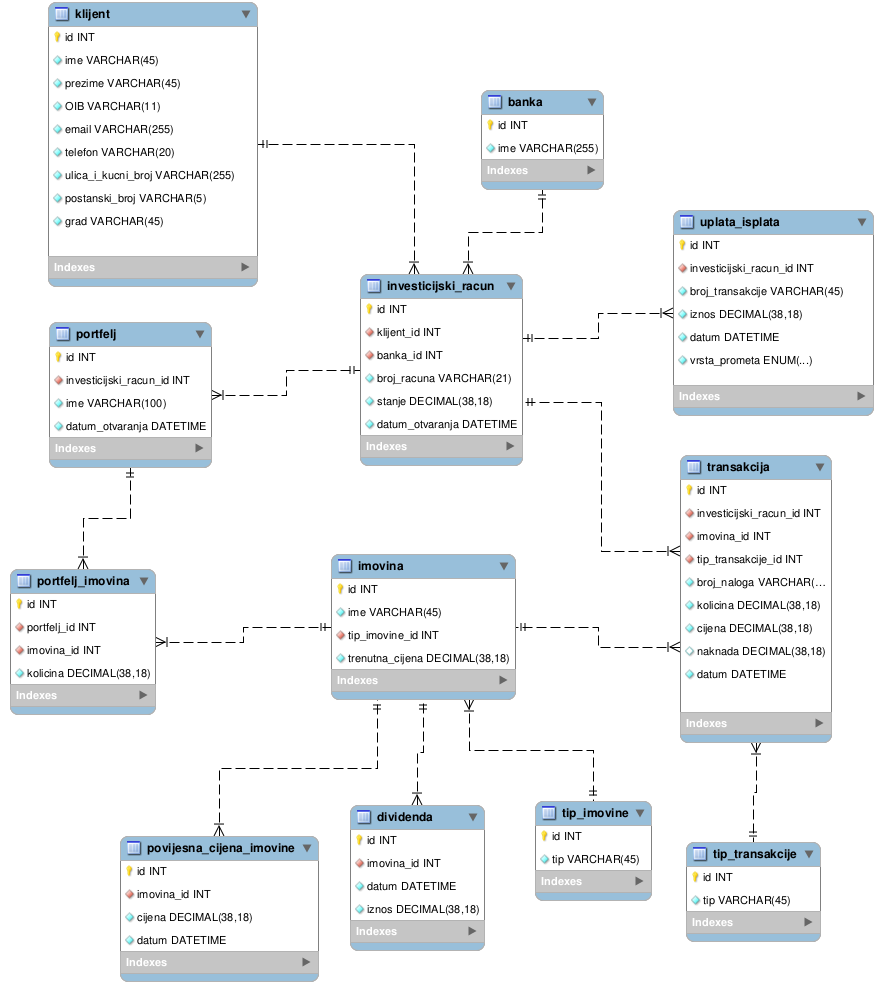
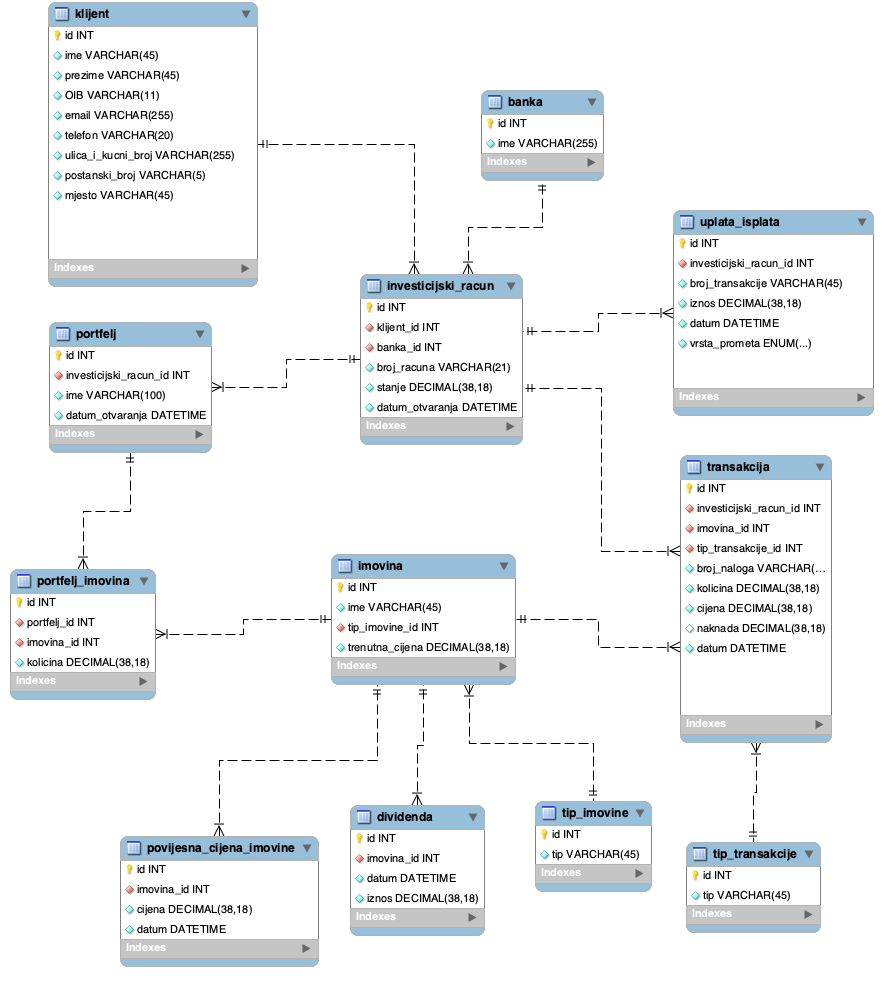
Usklađivanje modela i dokumentacije; dodan .gitignore; promijenjen grad u mjesto; standardizirani nazivi ključeva u ime_id; dodana UNIQUE ograničenja za povijesnu cijenu i dividendu; dodana objašnjenja za surogat ključeve; usklađena jednina entiteta i ažurirane slike dijagrama

diff --git a/radna_verzija/README.md b/radna_verzija/README.md
@@ -27,48 +27,39 @@ Na taj način sustav omogućuje cjelovito praćenje investicijskog ciklusa - od 
 #### 2. ER dijagram:
 ![ERD](radna_verzija_ER.png)
 
+#### 3. OPIS ER DIJAGRAMA
 
-#### 3. OPIS ER DIJAGRAMA:
+1. **klijent** i **investicijski_racun** su u vezi tipa **one-to-many (1:M)**. Jedan klijent može posjedovati više investicijskih računa, dok pojedini investicijski račun pripada točno jednom klijentu. Veza je sa strane investicijskog računa **potpuno uključena (totalna participacija)**, što znači da je pri unosu računa obavezno definirati pripadajućeg klijenta.<br>
+2. **banka** i **investicijski_racun** su u vezi tipa **one-to-many (1:M)**. Jedna banka može upravljati većim brojem investicijskih računa, dok pojedini investicijski račun pripada točno jednoj banci. Veza je sa strane investicijskog računa **potpuno uključena** jer svaki račun mora biti otvoren unutar jedne konkretne banke.<br>
+3. **investicijski_racun** i **uplata_isplata** su u vezi tipa **one-to-many (1:M)**. Na jednom investicijskom računu može se izvršiti više uplata ili isplata, dok se svaka pojedinačna uplata ili isplata odnosi na točno jedan investicijski račun. Svaki novčani promet mora biti evidentiran na točno određenom računu.<br>
+4. **investicijski_racun** i **portfelj** su u vezi tipa **one-to-many (1:M)**. Jedan investicijski račun može sadržavati više portfelja, dok pojedini portfelj pripada točno jednom investicijskom računu. Veza je sa strane portfelja **potpuno uključena** jer je portfelj nužno vezan za krovni investicijski račun.<br>
+5. **portfelj** i **imovina** su u vezi tipa **many-to-many (M:N)**. Jedan portfelj može sadržavati više različitih imovina, a ista imovina može biti dio više različitih portfelja. Budući da je riječ o **many-to-many** vezi, količina imovine unutar pojedinog portfelja modelirana je kao **opisni atribut** ove veze.<br>
+6. **tip_imovine** i **imovina** su u vezi tipa **one-to-many (1:M)**. Jedan tip imovine kategorizira više različitih imovina, dok pojedina imovina pripada točno jednom tipu imovine. Veza je sa strane imovine **potpuno uključena** jer svaka imovina mora biti klasificirana pod jedan definiran tip.<br>
+7. **imovina** i **povijesna_cijena_imovine** su u **identifikacijskoj vezi** tipa **one-to-many (1:M)**. Povijesna cijena je **slabi skup entiteta** čije postojanje egzistencijalno ovisi o jakom skupu entiteta imovina, a njezin parcijalni ključ (**diskriminator**) je predstavljen atributom datum. Slabi entitet podrazumijeva i potpunu uključenost.<br>
+8. **imovina** i **dividenda** su u **identifikacijskoj vezi** tipa **one-to-many (1:M)**. Dividenda je **slabi skup entiteta** čije postojanje egzistencijalno ovisi o jakom skupu entiteta imovina, a njezin parcijalni ključ (**diskriminator**) je predstavljen datumom.<br>
+9. **tip_transakcije** i **transakcija** su u vezi tipa **one-to-many (1:M)**. Jedan tip transakcije definira vrstu za više različitih transakcija, dok pojedina transakcija ima točno jedan definiran tip. Veza je sa strane transakcije **potpuno uključena** jer svaka transakcija mora imati određenu vrstu (npr. kupovina ili prodaja).<br>
+10. **imovina** i **transakcija** su u vezi tipa **one-to-many (1:M)**. Nad jednom imovinom može se izvršiti više različitih transakcija, dok se svaka pojedinačna transakcija odnosi na točno jednu imovinu. Veza je sa strane transakcije **potpuno uključena (totalna participacija)** jer se transakcija mora provesti nad konkretnom imovinom.<br>
+11. **investicijski_racun** i **transakcija** su u vezi tipa **one-to-many (1:M)**. Na jednom investicijskom računu može se izvršiti više transakcija, dok se svaka pojedinačna transakcija veže za točno jedan investicijski račun. Veza je sa strane transakcije **potpuno uključena** jer svaka transakcija mora teretiti ili odobravati točno određeni investicijski račun.<br>
 
-1) Klijent posjeduje investicijski račun (one to many, klijent može imati više investicijski računa, ali svaki investicijski račun pripada samo jednom klijentu)
-
-2) Banka upravlja investicijskim računom (one to many, banka može upravljati većim brojem računa, ali račun pripad samo jednoj banci)
-
-3) Skup entiteta uplata_isplata evidentira uplate i isplate na određenom investicijskom računom (one to many, investicijski račun može imati više uplata koje se odnose na njega, ali jedna uplata ili isplata se odnosi isključivo na jedan račun)
-
-4) Portfelj pripada investicijskom računu (one to many, račun može imati više portfelja, ali portfelj se odnosi samo na jedan račun)
-
-5) Portfelj sadrži imovinu (many to many, portfelj može sadržavati više imovina, koje mogu sudjelovati u više portfelja) [budući da je riječ o many to many vezi, količina imovine je označena kao opisni atribut te ovdje nastaje nova relacija]
-
-6) Tip imovine kategorizira pojedinu imovinu (one to many, jedan tip se odnosi na više imovina, ali imovina ima samo jedan tip)
-
-7) Povijesna cijena bilježi kretanje cijena imovine kroz vrijeme (one to many, jedna imovina ima više različitih cijena, ali svaka cijena se odnosi na samo jednu imovinu) Također, ovo je slabi entitet, a diskriminator je predstavljen datumom
-
-8) Dividenda se isplaćuje za pojedinu imovinu (one to many, jedna imovina može imati više dividendi, ali dividende isplaćuju za samo jednu imovinu) Također, ovo je slab entitet (označen dvostrukim rombom), a diskriminator je predstavljen "brojem_isplate"
-
-9) Tip transkacije definira vrstu transakcije (one to many, tip se može odnositi na više transakcija, ali transkacija ima samo jedan tip)
-
-10) Transakcija se izvodi s imovinama (one to many, s jednom imovinom su moguće različite transkacije, ali jedna transkacija se odnosi na samo jednu imovinu)
-
-11) Transkacija bilježi i na koji se investicijski račun odnosi (one to many)
-
+---
 
 #### 4. RELACIJSKI MODEL (sheme)
 
-U fazi relacijskog modeliranja uveli smo surogatne ključeve za sve entitete radi optimizacije performansi i lakše implementacije u SQL-u.<br>
+U fazi relacijskog modeliranja uvodimo surogatne ključeve za sve entitete radi optimizacije performansi i lakše implementacije u SQL-u. 
+*(Napomena: **Podebljani** atributi su primarni ključevi, a *kosi* atributi su strani ključevi).*
 
-**klijent**(<u>id_klijent</u>, ime, prezime, OIB, email, telefon, ulica_i_kucni_broj, postanski_broj, grad)<br>
-**banka**(<u>id_banka</u>, ime)<br>
-**investicijski_racun**(<u>id_investicijski_racun</u>, id_klijent, id_banka, broj_racuna, stanje, datum_otvaranja)<br>
-**portfelj**(<u>id_portfelj</u>, id_investicijski_racun, ime, datum_otvaranja)<br>
-**uplata_isplata**(<u>id_uplata_isplata</u>, id_investicijski_racun, broj_transakcije, iznos, datum, vrsta_prometa)<br>
-**tip_imovine**(<u>id_tip_imovine</u>, tip)<br>
-**imovina**(<u>id_imovina</u>, ime, trenutna_cijena, id_tip_imovine)<br>
-**tip_transakcije**(<u>id_tip_transakcije</u>, tip)<br>
-**transakcija**(<u>id_transakcija</u>, id_imovina, id_tip_transakcije, broj_naloga, kolicina, cijena, naknada, datum)<br>
-**portfelj_imovina**(<u>id_portfelj_imovina</u>, id_portfelj, id_imovina, kolicina)<br>
-**povijesna_cijena_imovine**(<u>id_povijesna_cijena_imovine</u>, id_imovina, cijena, datum)<br>
-**dividenda**(<u>id_dividenda</u>, id_imovina, datum_isplate, iznos)<br>
+* **klijent** (**klijent_id**, ime, prezime, OIB, email, telefon, ulica_i_kucni_broj, postanski_broj, mjesto)
+* **banka** (**banka_id**, ime)
+* **investicijski_racun** (**investicijski_racun_id**, *klijent_id*, *banka_id*, broj_racuna, stanje, datum_otvaranja)
+* **portfelj** (**portfelj_id**, *investicijski_racun_id*, ime, datum_otvaranja)
+* **uplata_isplata** (**uplata_isplata_id**, *investicijski_racun_id*, broj_transakcije, iznos, datum, vrsta_prometa)
+* **tip_imovine** (**tip_imovine_id**, tip)
+* **imovina** (**imovina_id**, ime, trenutna_cijena, *tip_imovine_id*)
+* **tip_transakcije** (**tip_transakcije_id**, tip)
+* **transakcija** (**transakcija_id**, *imovina_id*, *tip_transakcije_id*, broj_naloga, kolicina, cijena, naknada, datum)
+* **portfelj_imovina** (**portfelj_imovina_id**, *portfelj_id*, *imovina_id*, kolicina)
+* **povijesna_cijena_imovine** (**povijesna_cijena_imovine_id**, *imovina_id*, cijena, datum)
+* **dividenda** (**dividenda_id**, *imovina_id*, datum, iznos)
 
 #### 5. EER
 
@@ -91,7 +82,7 @@ CREATE TABLE klijent(
 	telefon VARCHAR(20) NOT NULL UNIQUE,
 	ulica_i_kucni_broj VARCHAR(255) NOT NULL,
 	postanski_broj CHAR(5) NOT NULL,
-	grad VARCHAR(45) NOT NULL,
+	mjesto VARCHAR(45) NOT NULL,
 	CHECK (OIB REGEXP '^[0-9]{11}$'),
 	CHECK (postanski_broj REGEXP '^[0-9]{5}$')
 );
@@ -109,7 +100,7 @@ Atributi **email** i **telefon** također moraju biti uneseni i biti jedinstveni
 
 Atribut **ulica_i_kucni_broj** ne mora biti jedinstven (zbog mogućnosti da dva klijenta žive na istoj adresi) dok za **postanski_broj** CHECK-om ponovo jamčimo da će se raditi o točno pet znamenki.
 
-Atribut **grad** mora biti unesen, ali ne mora biti UNIQUE jer se odnosi i na sela (a moguće je da se neka isto zovu).
+Atribut **mjesto** mora biti unesen, ali ne mora biti UNIQUE jer se odnosi i na sela (a moguće je da se neka isto zovu).
 
 ##### 6.2. TABLICA banka
 
@@ -181,11 +172,12 @@ CREATE TABLE uplata_isplata(
 );
 ```
 
-**broj_transkacije** je ovdje ključ kandidat i služi prije svega korisničkoj strani (dok se sama baza i dalje oslanja na surogat ključ **id**)
 
-**iznos** se odnosi na količinu novca koja se uplaćuje ili isplaćuje (što je određeno atributom **vrsta_prometa* koji je tip ENUM)
+Ova tablica vodi evidenciju o svim novčanim tokovima na investicijskom računu. Iako je na konceptualnom ERD dijagramu kao primarni ključ identificiran prirodni poslovni ključ **broj_transakcije** (budući da bankarski sustavi koriste jedinstvene interne brojeve transakcija), u relacijskom modelu i SQL kodu uveden je surogatni ključ id radi optimizacije performansi baze i lakšeg mapiranja stranih ključeva.
 
-**datum** zapravo predstavlja datum i vrijeme određene transakcije tipom DATETIME
+Prirodni ključ **broj_transakcije** je u kodu zadržan kao ključ kandidat uz ograničenje **UNIQUE**, čime je osigurano da se unutar sustava ne može pojaviti dupli unos iste bankovne transakcije. Atribut **iznos** odnosi se na količinu novca, što je određeno atributom **vrsta_prometa** koji je tip ENUM. 
+
+Ograničenje UNSIGNED kod iznosa osigurava da ne mogu postojati negativne vrijednosti. Atribut **datum** (tip DATETIME) precizno bilježi točan trenutak izvršenja prometa.
 
 
 ##### 6.6. TABLICA tip_imovine
@@ -241,8 +233,7 @@ CREATE TABLE transakcija(
 	FOREIGN KEY (tip_transakcije_id) REFERENCES tip_transakcije (id) ON DELETE RESTRICT
 );
 ```
-
-**broj_naloga** ima istu funkciju kao i **broj_transkacije** iz tablice "uplata_isplata", odnosno riječ je o ključu kandidatu koji služi korisničkoj strani za razliku od surogata **id**.
+**broj_naloga** ima istu funkciju kao i **broj_transakcije** iz tablice "uplata_isplata". Na konceptualnom ERD-u je to primarni ključ, no u SQL-u smo uveli surogat **id** kao primarni ključ baze, dok je **broj_naloga** ostao kao ključ kandidat uz **UNIQUE** ograničenje koji služi korisničkoj strani za razlikovanje pojedinačnih transakcija.
 
 **kolicina** se odnosi na količinu imovine koja se kupuje ili prodaje. UNSIGNED jer ne može biti negativna vrijednost, a isto vrijedi i za **cijenu** (određene imovine) i **naknadu**.
 
@@ -272,11 +263,13 @@ CREATE TABLE povijesna_cijena_imovine(
 	imovina_id INT NOT NULL,
 	cijena DECIMAL(38,18) UNSIGNED NOT NULL,
 	datum DATETIME NOT NULL,
-	FOREIGN KEY (imovina_id) REFERENCES imovina (id) ON DELETE CASCADE
+	FOREIGN KEY (imovina_id) REFERENCES imovina (id) ON DELETE CASCADE,
+	UNIQUE (imovina_id, datum)
 );
 ```
 
-U ovoj tablici se vode povijesne cijene imovine na određeni **datum**, no ostavljen je tip DATETIME u slučaju da se želi početi gledati i kretanje cijena kroz sate ili minute.
+Na konceptualnoj razini (ERD), povijesna_cijena_imovine je slabi skup entiteta kojemu je **datum** parcijalni ključ (diskriminator). Međutim, prilikom prevođenja u relacijski model i SQL, uveli smo surogatni ključ **id** kao primarni ključ radi lakše implementacije. Međutim, nad kombinacijom atributa imovina_id i datum uveli smo UNIQUE ograničenje, čime se u praksi sprječava višestruki unos različitih cijena za istu imovinu u istom vremenskom trenutku.
+
 
 ##### 6.12 TABLICA dividenda
 
@@ -286,9 +279,10 @@ CREATE TABLE dividenda(
 	imovina_id INT NOT NULL,
 	datum DATETIME NOT NULL,
 	iznos DECIMAL(38,18) UNSIGNED NOT NULL,
-	FOREIGN KEY (imovina_id) REFERENCES imovina(id) ON DELETE CASCADE
+	FOREIGN KEY (imovina_id) REFERENCES imovina(id) ON DELETE CASCADE,
+	UNIQUE (imovina_id, datum)
 );
 ```
 
-U ovoj tablici se vodi evidencija o isplaćenim dividendama za određene vrste imovine, što je predstavljeno atributom **iznos** koji se isplaćuje na određeni **datum**.
-
+Ova tablica bilježi iznos isplaćenih dividendi za određenu imovinu na zadani **datum**.
+Primijenjena je identična logika kao kod povijesnih cijena: uz surogatni **id**, ograničenje UNIQUE (imovina_id, datum) definira tu kombinaciju kao ključ kandidat i sprječava dvostruki unos isplate dividende za istu imovinu u istom trenutku.